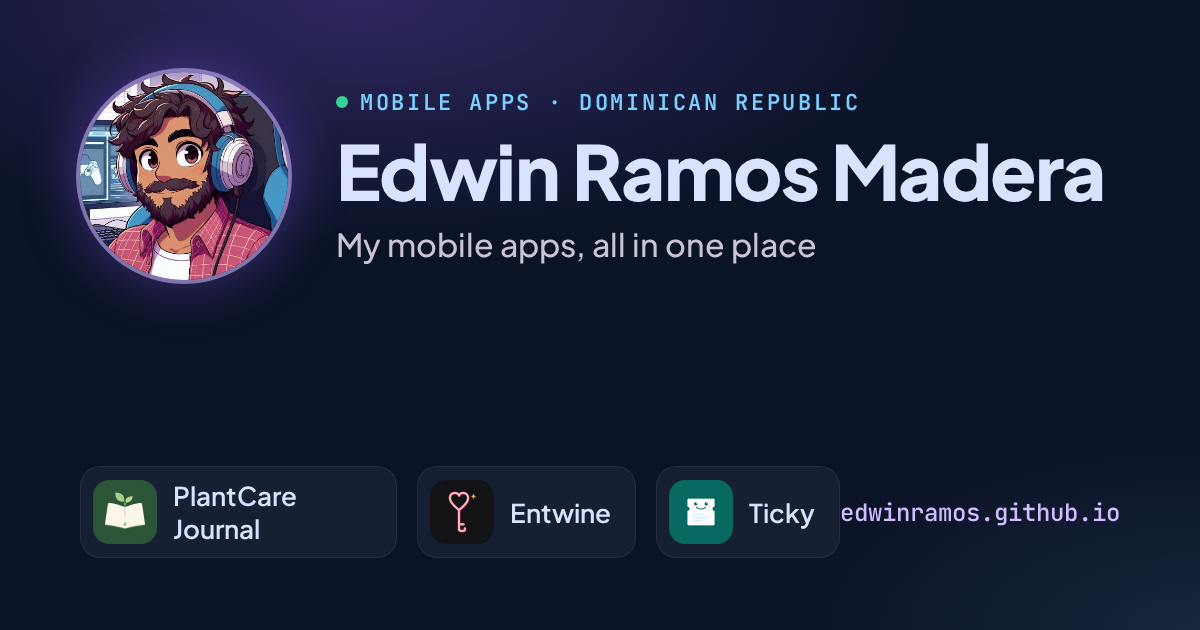
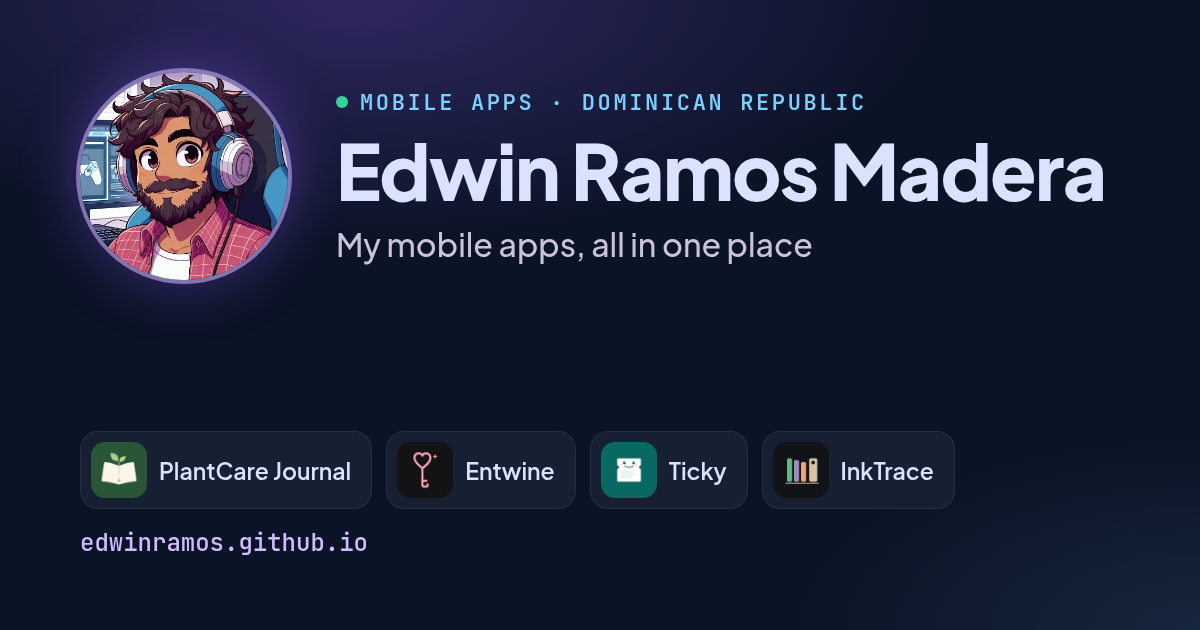
Add InkTrace app (in development)

diff --git a/src/content/projects/es/inktrace.md b/src/content/projects/es/inktrace.md
@@ -1,0 +1,27 @@
+---
+title: InkTrace
+summary: "Tu diario de lectura para libros, manga, manhwa, webcomics y cómics."
+status: in-development
+statusLabel: En desarrollo
+platforms: [android]
+logo: /images/inktrace-icon-512.png
+ogImage: /images/inktrace-icon-512.png
+icon: history_edu
+screenshots: [/images/inktrace-1.webp, /images/inktrace-2.webp, /images/inktrace-3.webp, /images/inktrace-4.webp]
+tags: [React Native, Expo, TypeScript, Google Drive]
+featured: true
+order: 4
+date: 2026-11-01
+example: false
+---
+**InkTrace** es un diario de lectura, no un lector.
+
+- 📖 **Registra tu avance** por páginas o capítulos con un toque y mide tus sesiones.
+- ✍ **Tu diario:** guarda citas, notas y viñetas.
+- 🔥 **Tus estadísticas:** rachas, mapa de calor y tu resumen tipo Wrapped.
+- 🔎 **Agrega obras** escaneando el ISBN o buscándolas por título.
+- ☁ **Funciona sin conexión y sin cuenta;** si quieres, inicias sesión con Google para guardar una copia en tu Google Drive.
+
+**Privacidad:** sin anuncios ni analítica: tu biblioteca y tu diario se guardan en tu teléfono, y la copia opcional va a tu propio Google Drive.
+
+Hecha con Expo / React Native.

diff --git a/docs/apps.md b/docs/apps.md
@@ -7,7 +7,7 @@ src/content/projects/es/<app>.md   → https://edwinramos.github.io/apps/<app>/
 src/content/projects/en/<app>.md   → https://edwinramos.github.io/en/apps/<app>/
 ```
 
-- El **nombre del archivo es la URL**. Hoy existen `plantcare-journal.md` (`/apps/plantcare-journal/`), `entwine.md` (`/apps/entwine/`) y `ticky.md` (`/apps/ticky/`). Usa minúsculas y guiones, sin espacios ni acentos.
+- El **nombre del archivo es la URL**. Hoy existen `plantcare-journal.md` (`/apps/plantcare-journal/`), `entwine.md` (`/apps/entwine/`), `ticky.md` (`/apps/ticky/`) e `inktrace.md` (`/apps/inktrace/`). Usa minúsculas y guiones, sin espacios ni acentos.
 - La carpeta se llama `projects` por razones históricas, pero son las apps.
 - Los campos se validan en `src/content.config.ts` (colección `projects`). Si un campo tiene un formato incorrecto, el build falla y el sitio anterior sigue en línea (ver [publicar.md](./publicar.md#si-falla-un-deploy)).
 - En el sitio, las apps se ordenan así: primero las **destacadas** (`featured: true`) y luego por `order`, de menor a mayor. Salen en la portada (sección «Mis apps»), en `/apps/` y en `/privacy/`.

diff --git a/src/content/projects/en/inktrace.md b/src/content/projects/en/inktrace.md
@@ -1,0 +1,27 @@
+---
+title: InkTrace
+summary: "Your reading journal for books, manga, manhwa, webcomics and comics."
+status: in-development
+statusLabel: In development
+platforms: [android]
+logo: /images/inktrace-icon-512.png
+ogImage: /images/inktrace-icon-512.png
+icon: history_edu
+screenshots: [/images/inktrace-1.webp, /images/inktrace-2.webp, /images/inktrace-3.webp, /images/inktrace-4.webp]
+tags: [React Native, Expo, TypeScript, Google Drive]
+featured: true
+order: 4
+date: 2026-11-01
+example: false
+---
+**InkTrace** is a reading journal, not a reader.
+
+- 📖 **Log your progress** by page or chapter with one tap, and time your sessions.
+- ✍ **Your journal:** save quotes, notes and panels.
+- 🔥 **Your stats:** streaks, heatmap and a Wrapped-style recap.
+- 🔎 **Add titles** by scanning the ISBN or searching by name.
+- ☁ **Works offline and without an account;** optionally sign in with Google to keep a backup in your own Google Drive.
+
+**Privacy:** no ads or analytics: your library and journal stay on your phone, and the optional backup goes to your own Google Drive.
+
+Built with Expo / React Native.
